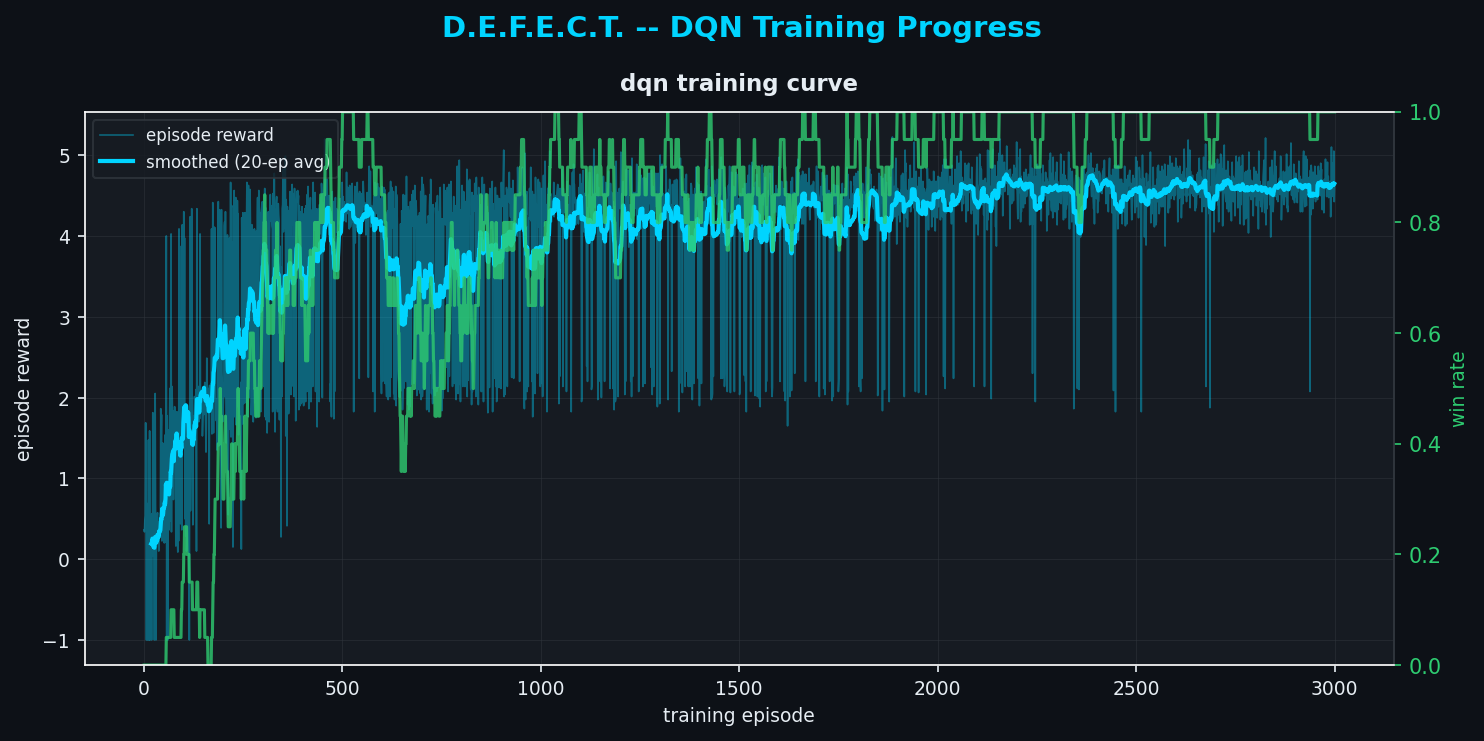
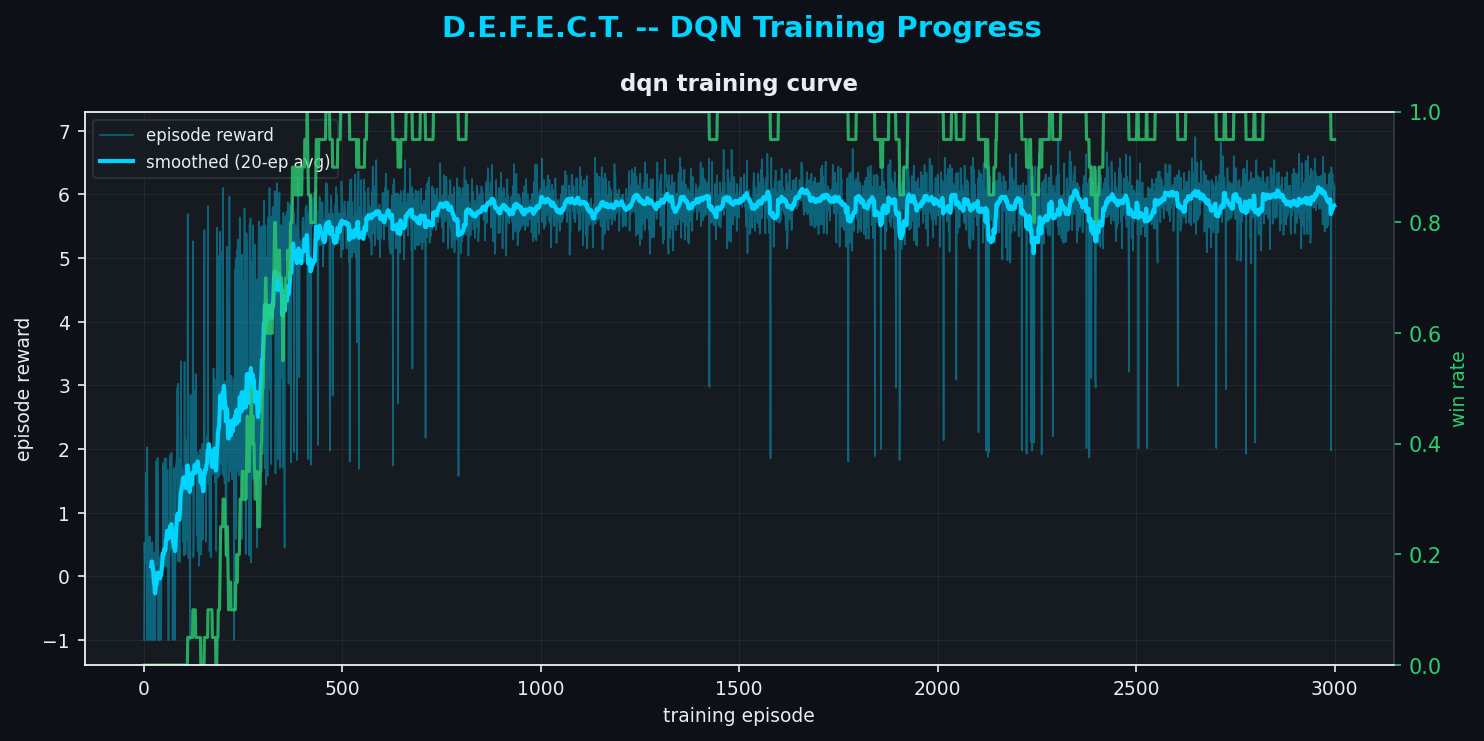
Four fight benchmark was tested, evaled, and plotted. Result log update will come next commit

Changed region(s): [[0.093, 0.1552, 0.8989, 0.9001], [0.031, 0.7449, 0.062, 0.776]]

diff --git a/MiniSTS/evaluate.py b/MiniSTS/evaluate.py
@@ -29,7 +29,7 @@ sys.path.insert(0, os.path.dirname(os.path.abspath(__file__)))
 from game import GameState
 from battle import BattleState
 from config import Character, Verbose
-from agent import JawWorm, SwampLeech, GoblinFiend, GoblinWizard
+from agent import JawWorm, SwampLeech, GoblinFiend, GoblinWizard, Cultist
 from card import CardRepo
 
 from ggpa.random_bot import RandomBot
@@ -65,7 +65,7 @@ BATTLE_SUITES = {
     'single': [JawWorm],
     'two':    [JawWorm, SwampLeech],
     'three': [JawWorm, SwampLeech, (GoblinFiend, GoblinWizard)],
-    # 'four':  [JawWorm, SwampLeech, TwoEnemyFight, Cultist],
+    'four':  [JawWorm, SwampLeech, (GoblinFiend, GoblinWizard), Cultist],
 }
 
 BURNING_BLOOD_HEAL = 6  # ironclad starting relic
@@ -256,9 +256,9 @@ def main():
                         help='which agent to evaluate (default: all)')
     parser.add_argument('--episodes', type=int, default=50,
                         help='number of evaluation episodes (default: 50)')
-    parser.add_argument('--battles', type=str, default='three',
+    parser.add_argument('--battles', type=str, default='four',
                         choices=list(BATTLE_SUITES.keys()),
-                        help='battle suite to run (default: three)')
+                        help='battle suite to run (default: four)')
     parser.add_argument('--output', type=str, default='eval_results.json',
                         help='output file for results (default: eval_results.json)')
     args = parser.parse_args()

diff --git a/MiniSTS/main.py b/MiniSTS/main.py
@@ -1,7 +1,7 @@
 from game import GameState
 from battle import BattleState
 from config import Character, Verbose
-from agent import SwampLeech, JawWorm, GoblinFiend, GoblinWizard
+from agent import SwampLeech, JawWorm, GoblinFiend, GoblinWizard, Cultist
 from card import CardGen, CardRepo
 import time
 from ggpa.random_bot import RandomBot
@@ -140,7 +140,7 @@ def main():
     # fight 3: two enemies (target selection) 
     # fight 4: cultist with ritual (urgency test) -- add when ready
     # main.py and evaluate.py
-    battles = [JawWorm, SwampLeech, (GoblinFiend, GoblinWizard)]
+    battles = [JawWorm, SwampLeech, (GoblinFiend, GoblinWizard), Cultist]
     pbar = tqdm(range(num_episodes), desc="Training", unit="ep")
     for i_episode in pbar:
         # game state created once per episode -- hp carries over between fights